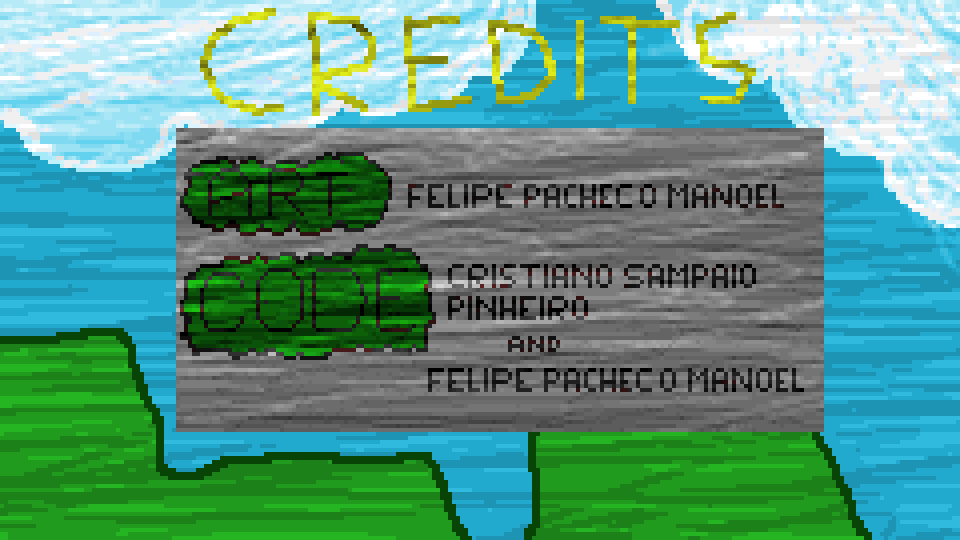
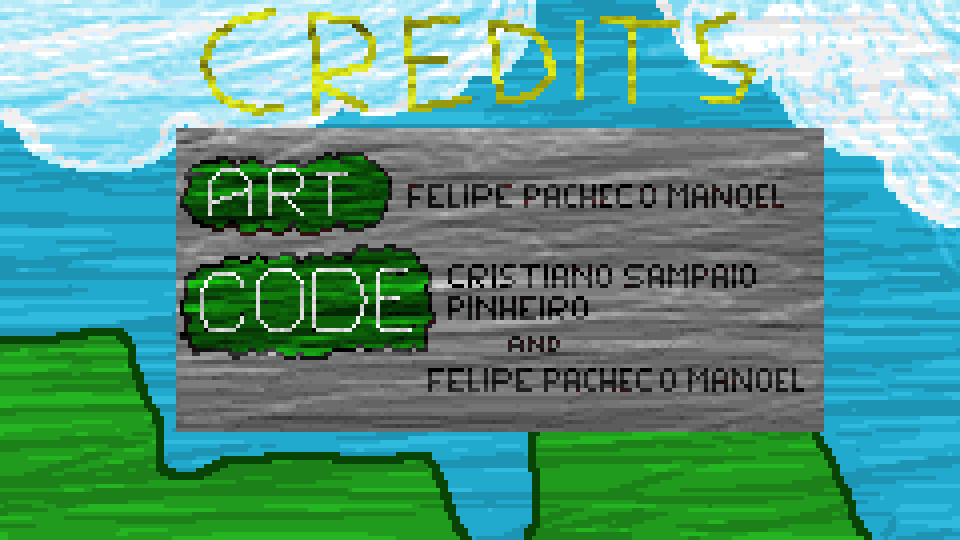
pequena melhora na visibilidade das letras no fundo da tela dos creditos

diff --git a/src/peca/Peca.java b/src/peca/Peca.java
@@ -71,4 +71,9 @@ public abstract class Peca extends JPanel {
 	public int applyScale(int x) {
 		return (int)(x*scale); 
 	}
+//	protected void tick() {
+//		if(currentAction=="moving") {
+//			
+//		}
+//	}
 }
